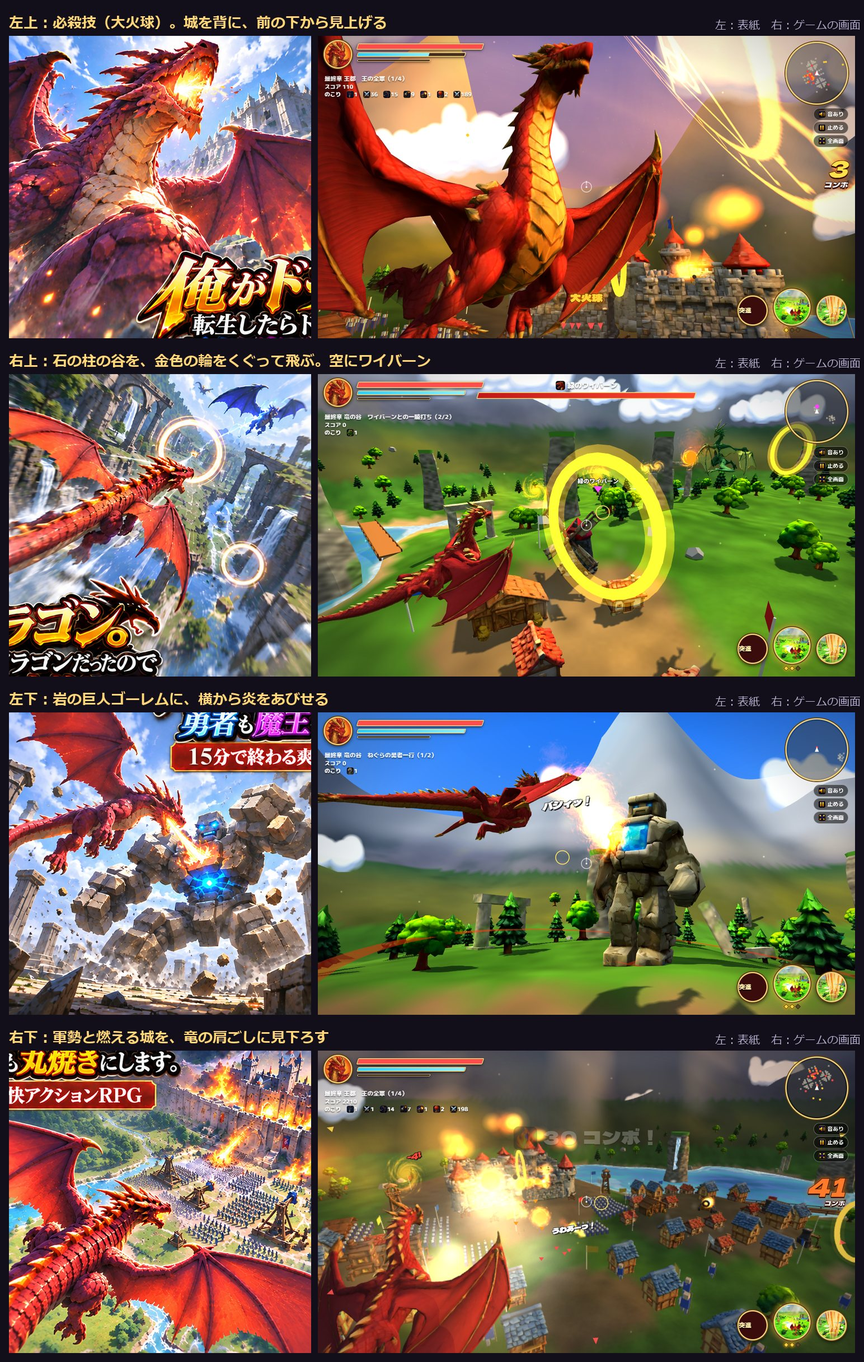
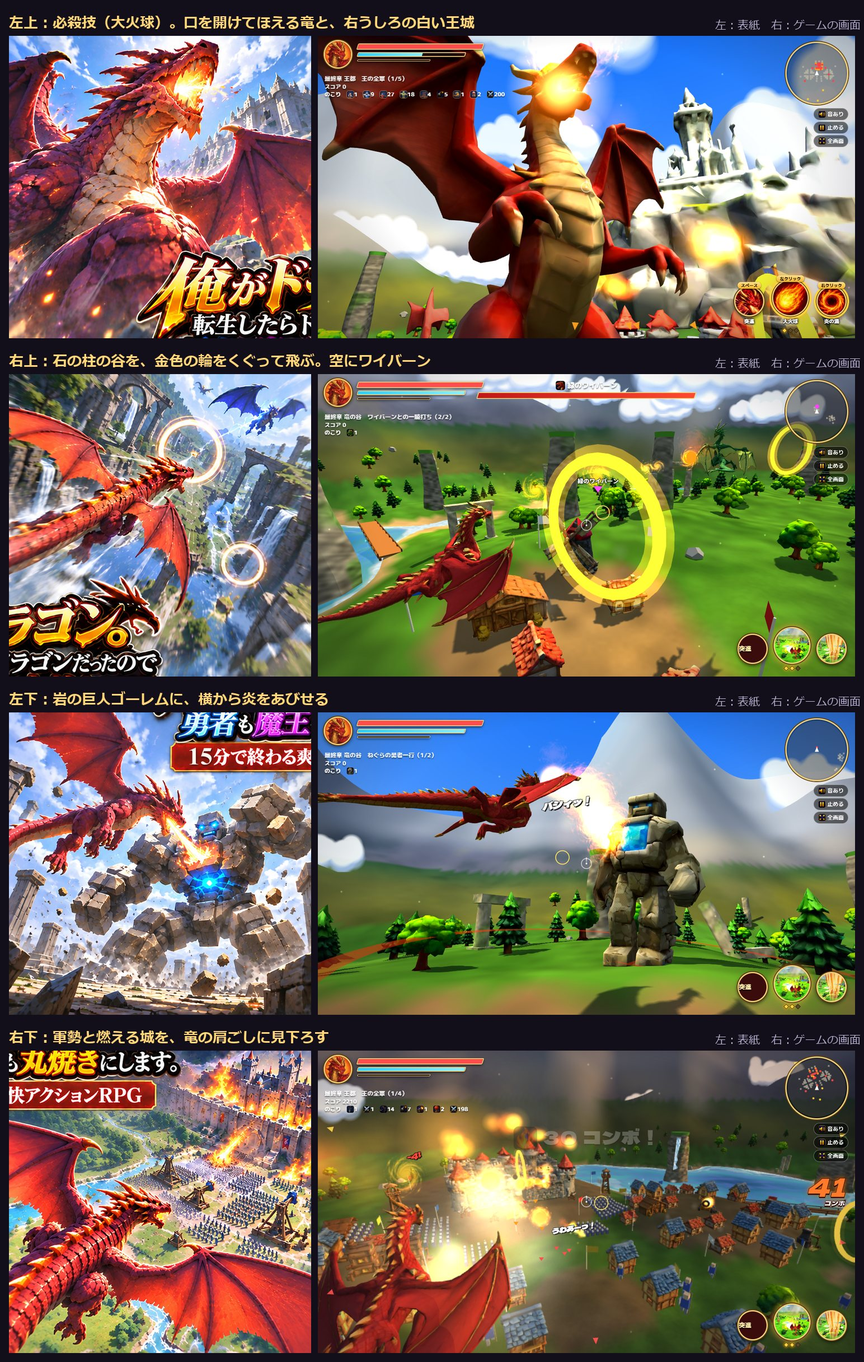
ゲームを更新

Changed region(s): [[0.2176, 0.0, 0.9948, 0.25]]

diff --git a/index.html b/index.html
@@ -830,7 +830,7 @@ const MODEL={},MIX=[];
 // 自分のキャラだけ別のモデルを使う時の対応（ワイバーン＝緑の方）。読めなかった時は元のモデルにもどる
 const PMODEL={wyvern:'wyvern2'};
 // 3Dモデルの版。モデルを作り直したら数字を変える（古い版がブラウザに残らないように）
-const ASSET_V='1116zq';let LOADED=0,LOADN=0,READY=false;
+const ASSET_V='1116zr';let LOADED=0,LOADN=0,READY=false;
 function loadStep(){LOADED++;const k=Math.round(LOADED/Math.max(1,LOADN)*100)+'%';const b=$('ldp');if(b)b.style.width=k;const n=$('ldn');if(n)n.textContent=k;}
 function loadDone(){if(READY)return;READY=true;$('title').classList.add('ready');$('press').textContent='クリック／タップではじめる';}
 async function loadModels(){try{await loadModels0();}finally{loadDone();}}
@@ -3157,7 +3157,7 @@ function updEnemies(dt){btkTick(dt);wkClipTick(dt);s3Tick(dt);
     case 'bat':case 'imp':{const s=e.seed;
       tmp2.set(P.pos.x+Math.sin(e.t*1.8+s)*14,P.pos.y+3+Math.sin(e.t*2.6+s)*5,P.pos.z+Math.cos(e.t*1.8+s)*14);
       fly(e,tmp2,e.type==='imp'?32:27,dt);e.mesh.lookAt(tmp.copy(p).add(e.vel));
-      const w=e.mesh.userData.w,a=Math.sin(e.t*18)*0.9;w.R.rotation.z=a;w.L.rotation.z=-a;
+      const w=e.mesh.userData.w,a=Math.sin(e.t*18)*0.9;w.R.rotation.z=a;w.L.rotation.z=-a;if(e.mesh.userData.bh)s1Flap(e,a);
       if(e.type==='imp'&&e.cd<=0&&hd<90){e.cd=rnd(3,5);shootAtP(p.clone(),70,{mat:MAT.dfire,size:0.8,r:1.2,dmg:6,life:3,trail:PURP,col:PURP});}
       if(d3<e.r+4)hurt(e.dmg*dt,true);break;}
     case 'drak':case 'ogre':case 'gdrake':{if(e.king||e.gen){orcBossAI(e,dt,dx,dz,hd,d3);break;}grav(e,dt);walk(e,P.pos.x,P.pos.z,hd>22?(e.type==='gdrake'?17:6.5):0,dt);animWalk(e,4);
@@ -4224,6 +4224,38 @@ function caveBuild(){caveClear();const [cx,cz]=TER.start,gy=floorAt(cx,cz),R=CAV
     [[0xffa850,1.0,GOLDP.x,GOLDP.y+6,GOLDP.z,110],[0x5fd8ff,0.9,s1.x,s1.y+8,s1.z,95],[0x9a7aff,0.8,s2.x,s2.y+8,s2.z,95]].forEach((a,i)=>{const l=new THREE.PointLight(a[0],a[1],a[5]);l.position.set(a[2],a[3],a[4]);g.add(l);CAVE.lt.push({l,i:a[1],ph:i*2.3});});}
   const gg=new THREE.Sprite(new THREE.SpriteMaterial({map:GT,color:0xffc040,transparent:true,opacity:0.25,blending:THREE.AdditiveBlending,depthWrite:false}));gg.scale.set(40,18,1);gg.position.set(cx,gy+4,cz+18);g.add(gg);
   scene.add(g);CAVE.g=g;}
+/* ---- s1_models.py：洞窟の岩・骨・金の山と、こうもり・小悪魔を Tripo のモデルに ---- */
+const S1D={};
+function s1Dim(id){if(S1D[id])return S1D[id];const m=cloneModel(id);if(!m)return null;const h=new THREE.Group();m.rotation.y=MODEL[id].rot;h.add(m);h.updateMatrixWorld(true);const b=new THREE.Box3().setFromObject(h);return S1D[id]={sz:b.getSize(new V3()),mn:b.min.clone(),ct:b.getCenter(new V3())};}
+// モデルを、高さ hh（wd があれば幅 wd の方）に合わせて、足もとを床にぴったり置く
+function s1Put(g,id,x,z,hh,ry,wd){const D=s1Dim(id);if(!D)return null;const m=cloneModel(id);if(!m)return null;const k=wd?wd/Math.max(D.sz.x,D.sz.z):hh/D.sz.y;
+  const h=new THREE.Group();m.rotation.y=MODEL[id].rot;m.scale.setScalar(k);m.position.set(-D.ct.x*k,-D.mn.y*k-0.35,-D.ct.z*k);h.add(m);h.position.set(x,floorAt(x,z),z);h.rotation.y=ry;g.add(h);return h;}
+function s1Cave(){const g=CAVE.g;if(!g||!MODEL.cstalag&&!MODEL.cbones&&!MODEL.choard)return;
+  const cx=CAVE.x,cz=CAVE.z,hide=[],add=[],M=new THREE.Matrix4(),pp=new V3(),qq=new THREE.Quaternion(),ss=new V3();
+  const pos=(im,i)=>{im.getMatrixAt(i,M);M.decompose(pp,qq,ss);return {x:pp.x,y:pp.y,z:pp.z,sx:ss.x,sy:ss.y,sz:ss.z};};
+  const ins=[];g.children.forEach(o=>{if(o.isInstancedMesh)ins.push(o);});
+  const ty=o=>o.geometry.type,pr=o=>o.geometry.parameters||{};
+  const cones=ins.find(o=>ty(o)==='ConeGeometry'&&o.count>=30),pil=ins.find(o=>ty(o)==='CylinderGeometry'&&pr(o).radiusTop===1&&pr(o).radiusBottom===1&&o.count===5),
+    mound=ins.find(o=>ty(o)==='DodecahedronGeometry'&&pr(o).radius===1.3),bn=ins.find(o=>ty(o)==='CylinderGeometry'&&pr(o).radiusTop===0.45),
+    sk=ins.find(o=>ty(o)==='SphereGeometry'&&pr(o).radius===1.2),rb=ins.find(o=>ty(o)==='TorusGeometry');
+  // 床の石のたけのこ → 岩の柱のかたまり（4本おきに1か所）
+  if(MODEL.cstalag&&cones){let n=0;for(let i=0;i<cones.count;i+=4){const q=pos(cones,i),hh=7+((i*37)%11)*1.5;const o=s1Put(g,'cstalag',q.x,q.z,hh,(i*2.399)%6.283);if(o){add.push(o);n++;}}if(n)hide.push(cones);}
+  // かべぎわの太い柱 → 背の高い岩の柱
+  if(MODEL.cstalag&&pil){let n=0;for(let i=0;i<pil.count;i++){const q=pos(pil,i),hh=Math.min(52,q.sy*0.62);const o=s1Put(g,'cstalag',q.x,q.z,hh,i*1.7);if(o){add.push(o);n++;}}if(n)hide.push(pil);}
+  // 金の山 → 金貨と宝の山（正面を一行のほう＝-z へ）
+  if(MODEL.choard&&mound){const o=s1Put(g,'choard',cx,cz+18,0,Math.PI,24);if(o){add.push(o);hide.push(mound);}}
+  // 骨 → 巨大な獣の骨（入口の通り道と金の山をよけた3か所）
+  if(MODEL.cbones&&bn){const sel=[];for(let i=0;i<bn.count&&sel.length<3;i++){const q=pos(bn,i),d=Math.hypot(q.x-cx,q.z-cz);if(d<52||Math.hypot(q.x-cx,q.z-cz-18)<30)continue;if(Math.abs(q.x-cx)<34&&q.z<cz+10)continue;if(sel.some(a=>Math.hypot(a.x-q.x,a.z-q.z)<34))continue;sel.push(q);}
+    let n=0;sel.forEach((q,i)=>{const o=s1Put(g,'cbones',q.x,q.z,0,Math.atan2(cx-q.x,cz-q.z)+(i-1)*0.9,24);if(o){add.push(o);n++;}});if(n){hide.push(bn);if(sk)hide.push(sk);if(rb)hide.push(rb);}}
+  hide.forEach(o=>{o.visible=false;});CAVE.s1=add;}
+{const cb0=caveBuild,cc0=caveClear;
+ caveBuild=function(){cb0.apply(this,arguments);try{s1Cave();}catch(err){console.warn('s1Cave',err);}};
+ caveClear=function(){if(CAVE.g&&CAVE.s1){CAVE.s1.forEach(o=>CAVE.g.remove(o));}CAVE.s1=null;cc0.apply(this,arguments);};}
+// こうもり・小悪魔：かぶせたモデルを、体ごとゆらす（羽ばたき）
+FITK.bat=2.6;FITK.imp=2.0;
+function s1Flap(e,a){const h=e.mesh.userData.bh;if(!h)return;const b=h.userData.b||(h.userData.b={y:h.position.y,im:e.type==='imp'});
+  h.position.y=b.y+a*(b.im?0.1:0.14);h.scale.x=1+a*(b.im?0.1:0.2);h.scale.y=1-Math.abs(a)*0.05;h.rotation.z=a*0.14;h.rotation.x=0.3+Math.sin(e.t*9)*0.05;}
+{const ae0=addEnemy;addEnemy=function(type){const e=ae0.apply(this,arguments);if(e&&(type==='bat'||type==='imp')&&MODEL[type]&&e.mesh){const c=e.mesh.children;e.mesh.userData.bh=c[c.length-1];}return e;};}
 // 勇者の一行：勇者（盾と飛びこみ斬り）・騎士（大きな兵。やりを投げる）・魔法使い（回復と結界）
 function caveParty(){caveBuild();moodT=MOODS[6];updMood(0,true);const cx=CAVE.x,cz=CAVE.z-17;if(C.fly)P.pos.y=CAVE.y+8;P.yaw=Math.PI;P.pitch=0;
   const h=addEnemy('hero',cx,cz);h.cave=1;h.hp=h.maxHp=h.maxHp*0.5;h.dmg*=0.5;h.sum1=1;h.p2=1;h.said=1;h.mt=3.6;h.sc=0.7;h.r=ST.hero.r*0.7;h.hc=ST.hero.hc*0.7;
@@ -5835,11 +5867,11 @@ TPT['緑のワイバーン']='wyvern';TPT['青のワイバーン']='wyvern';TBOS
     midKami([
       {img:'valley_c2',l:'勇者の一行が逃げたあと。ねぐらの入り口に、ひとつの影がおりてきた。'},
       {img:'valley_c2',who:n,l:'見つけましたよ、若。千年の寝ぼうとは、あきれた竜です'},
-      {img:'valley_c2',who:'ME',l:'……だれだ。目覚ましを頼んだ覚えは、ない'},
-      {img:'valley_c2',who:n,l:'若の目付け役です。千年、ここで目覚めを待っておりました'},
-      {img:'valley_c2',who:'ME',l:'（この体には、世話係がいたのか。……福利厚生は、前世よりいいな）'},
-      {img:'wyv_m1',who:n,l:'さあ、寝起きの稽古です。模擬戦を一本！ 手加減はいたしません'},
-      {img:'wyv_m1',who:'ME',l:'起きてすぐ体を動かすやつは、信用しないことにしている。……一本だけだ'}].map(o=>Object.assign(o,D)),
+      {img:'wyv_k_br',who:'ME',l:'……だれだ。目覚ましを頼んだ覚えは、ない'},
+      {img:'wyv_k_bl',who:n,l:'若の目付け役です。千年、ここで目覚めを待っておりました'},
+      {img:'wyv_k_br',who:'ME',l:'（この体には、世話係がいたのか。……福利厚生は、前世よりいいな）'},
+      {img:'wyv_s_tr',who:n,l:'さあ、寝起きの稽古です。模擬戦を一本！ 手加減はいたしません'},
+      {img:'wyv_s_bl',who:'ME',l:'起きてすぐ体を動かすやつは、信用しないことにしている。……一本だけだ'}].map(o=>Object.assign(o,D)),
       ()=>{fight();if(wv)banner(wv.msg,3);cineWave();});};}
 // ② 第1章のしめ（竜の3キャラ）：才能におどろく → 封印の魔王のおどし話 → 竜が食いつく
 {const V=TALKS.valley,o1=V.clear1,K=KIMG.valley,k1=K.c1,C1={};
@@ -5850,7 +5882,7 @@ TPT['緑のワイバーン']='wyvern';TPT['青のワイバーン']='wyvern';TBOS
     ['ME','……封印。魔王。くわしく聞こう。場所は、どこだ'],
     [n,'こ、こわがるところです、若！ ……ねぐらの奥の、古い階段の下ですが'],
     ['ME','人の寝床の下に、危険物か。……大家として、見回りに行く。お前も来い']]);
-  const ki=['wyv_m1','wyv_m1','wyv_m1','wyv_m2','wyv_m2','wyv_m2','dungeon_1'];
+  const ki=['wyv_s_bl','wyv_k_tr','wyv_k_tl','wyv_m2','wyv_m2','wyv_k_bl','dungeon_1'];
   Object.defineProperty(V,'clear1',{configurable:true,enumerable:true,get(){return caveOK()?mk(wyvNm()):o1;}});
   Object.defineProperty(K,'c1',{configurable:true,enumerable:true,get(){return caveOK()?ki:k1;}});}
 // ③ 最終章の始まり：封印ごしの取り引き　④ 魔王戦の掛け合い　⑤ しめの最後の一言

diff --git a/hikaku.html b/hikaku.html
@@ -18,7 +18,7 @@ small{color:#b9afcf}
 </style></head><body><main>
 <a class="back" href="./">▶ ゲームを遊ぶ</a>
 <h1>渡された絵 と ゲーム画面の見比べ</h1>
-<p><small>2026年11月15日　版 1116zl　（左：渡された絵　右：ゲームの画面）</small></p>
+<p><small>2026年11月15日　版 1116zq　（左：渡された絵　右：ゲームの画面）</small></p>
 <p class="lead">結論：表紙の4コマ・洞窟の勇者一行・ワイバーン戦は、絵と同じ向き・同じ並びで撮り直しました（11/15）。谷にアーチの遺跡、広間のかべにアーチ柱を足しました。まだ届いていないのは、兵の数、敵の近さ、画面のボタンの並びです。</p>
 <div class="toc"><a href="#s1">表紙の4コマ</a><a href="#s2">勇者の一行との戦い（洞窟）</a><a href="#s3">ワイバーンとの一騎打ち</a><a href="#s4">地下の迷宮</a><a href="#s5">封印の扉の前のゴーレム戦</a><a href="#s6">魔王の間</a><a href="#s7">こわれる時のかけら（前と今）</a></div>
 <section id="s1"><h2>表紙の4コマ</h2><img src="hikaku.jpg" alt="表紙の4コマ：渡された絵とゲームの画面">
